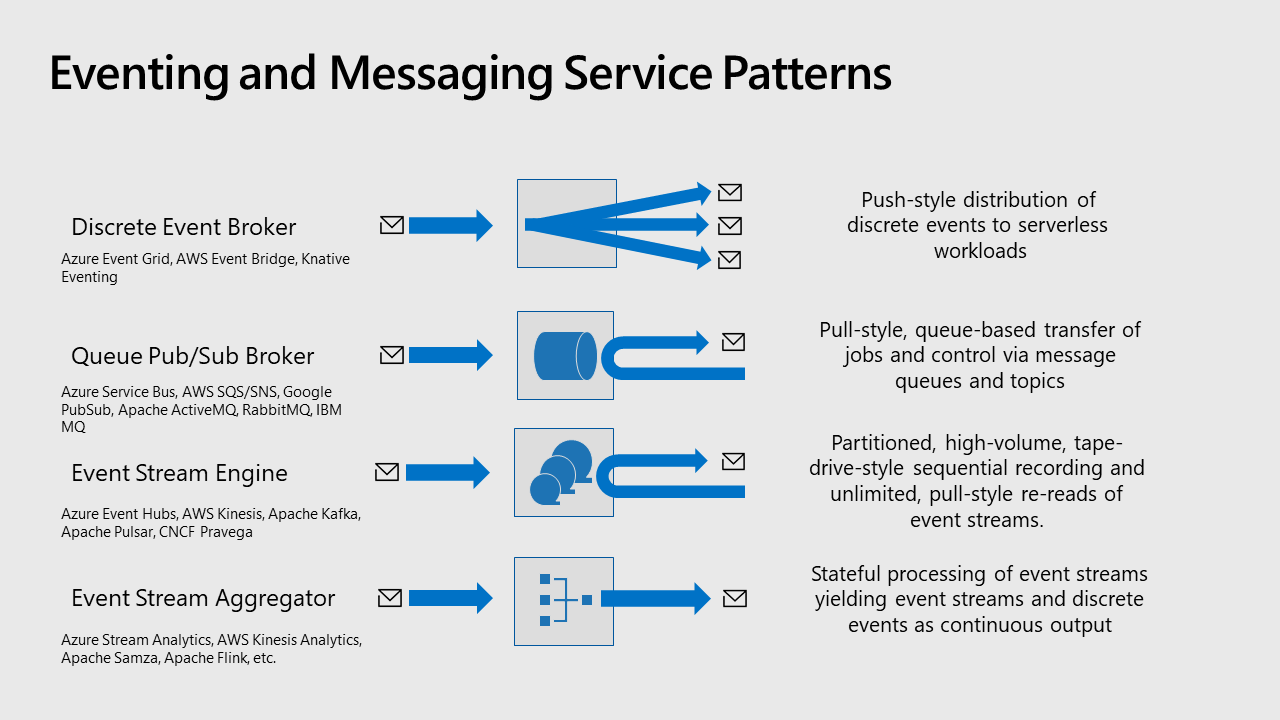
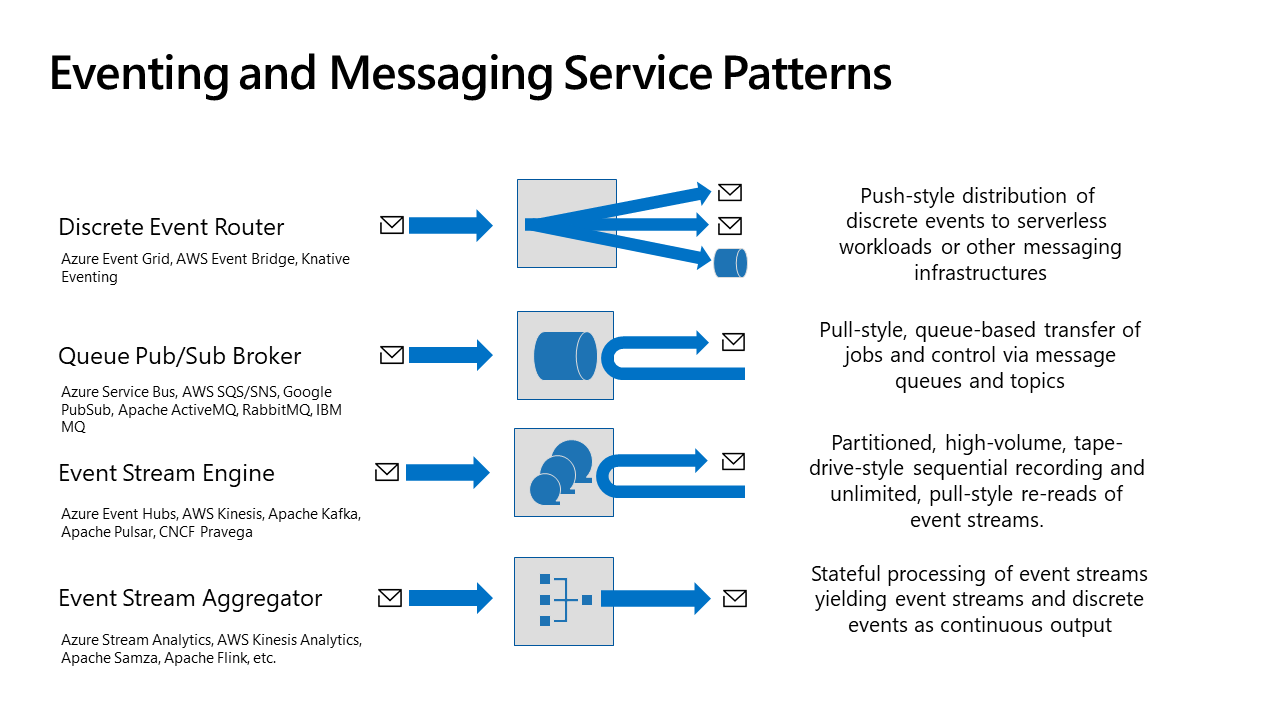
edits

diff --git a/README.md b/README.md
@@ -99,7 +99,9 @@ a brief definitions for all the words in those names for orientation.
   the morning of this day if it happened to you. The great thing about facts is
   that they can be easily distributed and cached and copied and transformed
   because the exact information they carry will forever be true and never again
-  change. (These philosophical considerations matter a lot for arriving at smart
+  change. "Discrete" events are independent of other events (unlike those in a
+  _stream_, see below) and are usually immediately actionable. (These
+  philosophical considerations matter a lot for arriving at smart
   architectures).
 * **Job** - A job is a variation of a message whose content reflects an intent.
   The producer sends content with the intent of a consumer doing some work based
@@ -122,13 +124,13 @@ a brief definitions for all the words in those names for orientation.
   the message metadata annotations. Routers may often be configured dynamically
   and at runtime to deliver messages to interested parties, which are then
   called subscribers. 
-* **Stream** - An event stream is a sequence of related events, which typically
-  stem from the same producer or at least the same producer context (i.e.
-  multiple producers create events about the same thing). An event stream engine
-  may multiplex delivery of many concurrent event streams (occasionally also
-  called _topic_) and may split those up across several physical logs
-  (partitions) while keeping any one event stream together on a partition to
-  ensure preserving order.
+* **Stream** - An event stream (or _event series_) is a sequence of related
+  events, which typically stem from the same producer or at least the same
+  producer context (i.e. multiple producers create events about the same thing).
+  An event stream engine may multiplex delivery of many concurrent event streams
+  (occasionally also called _topic_) and may split those up across several
+  physical logs (partitions) while keeping any one event stream together on a
+  partition to ensure preserving order.
 * **Checkpoint** - Event streams are usually processed by taking several events
   at a time. Since events are not jobs and therefore do not require exclusive
   handling, event stream engines therefore shift the burden of keeping track of
